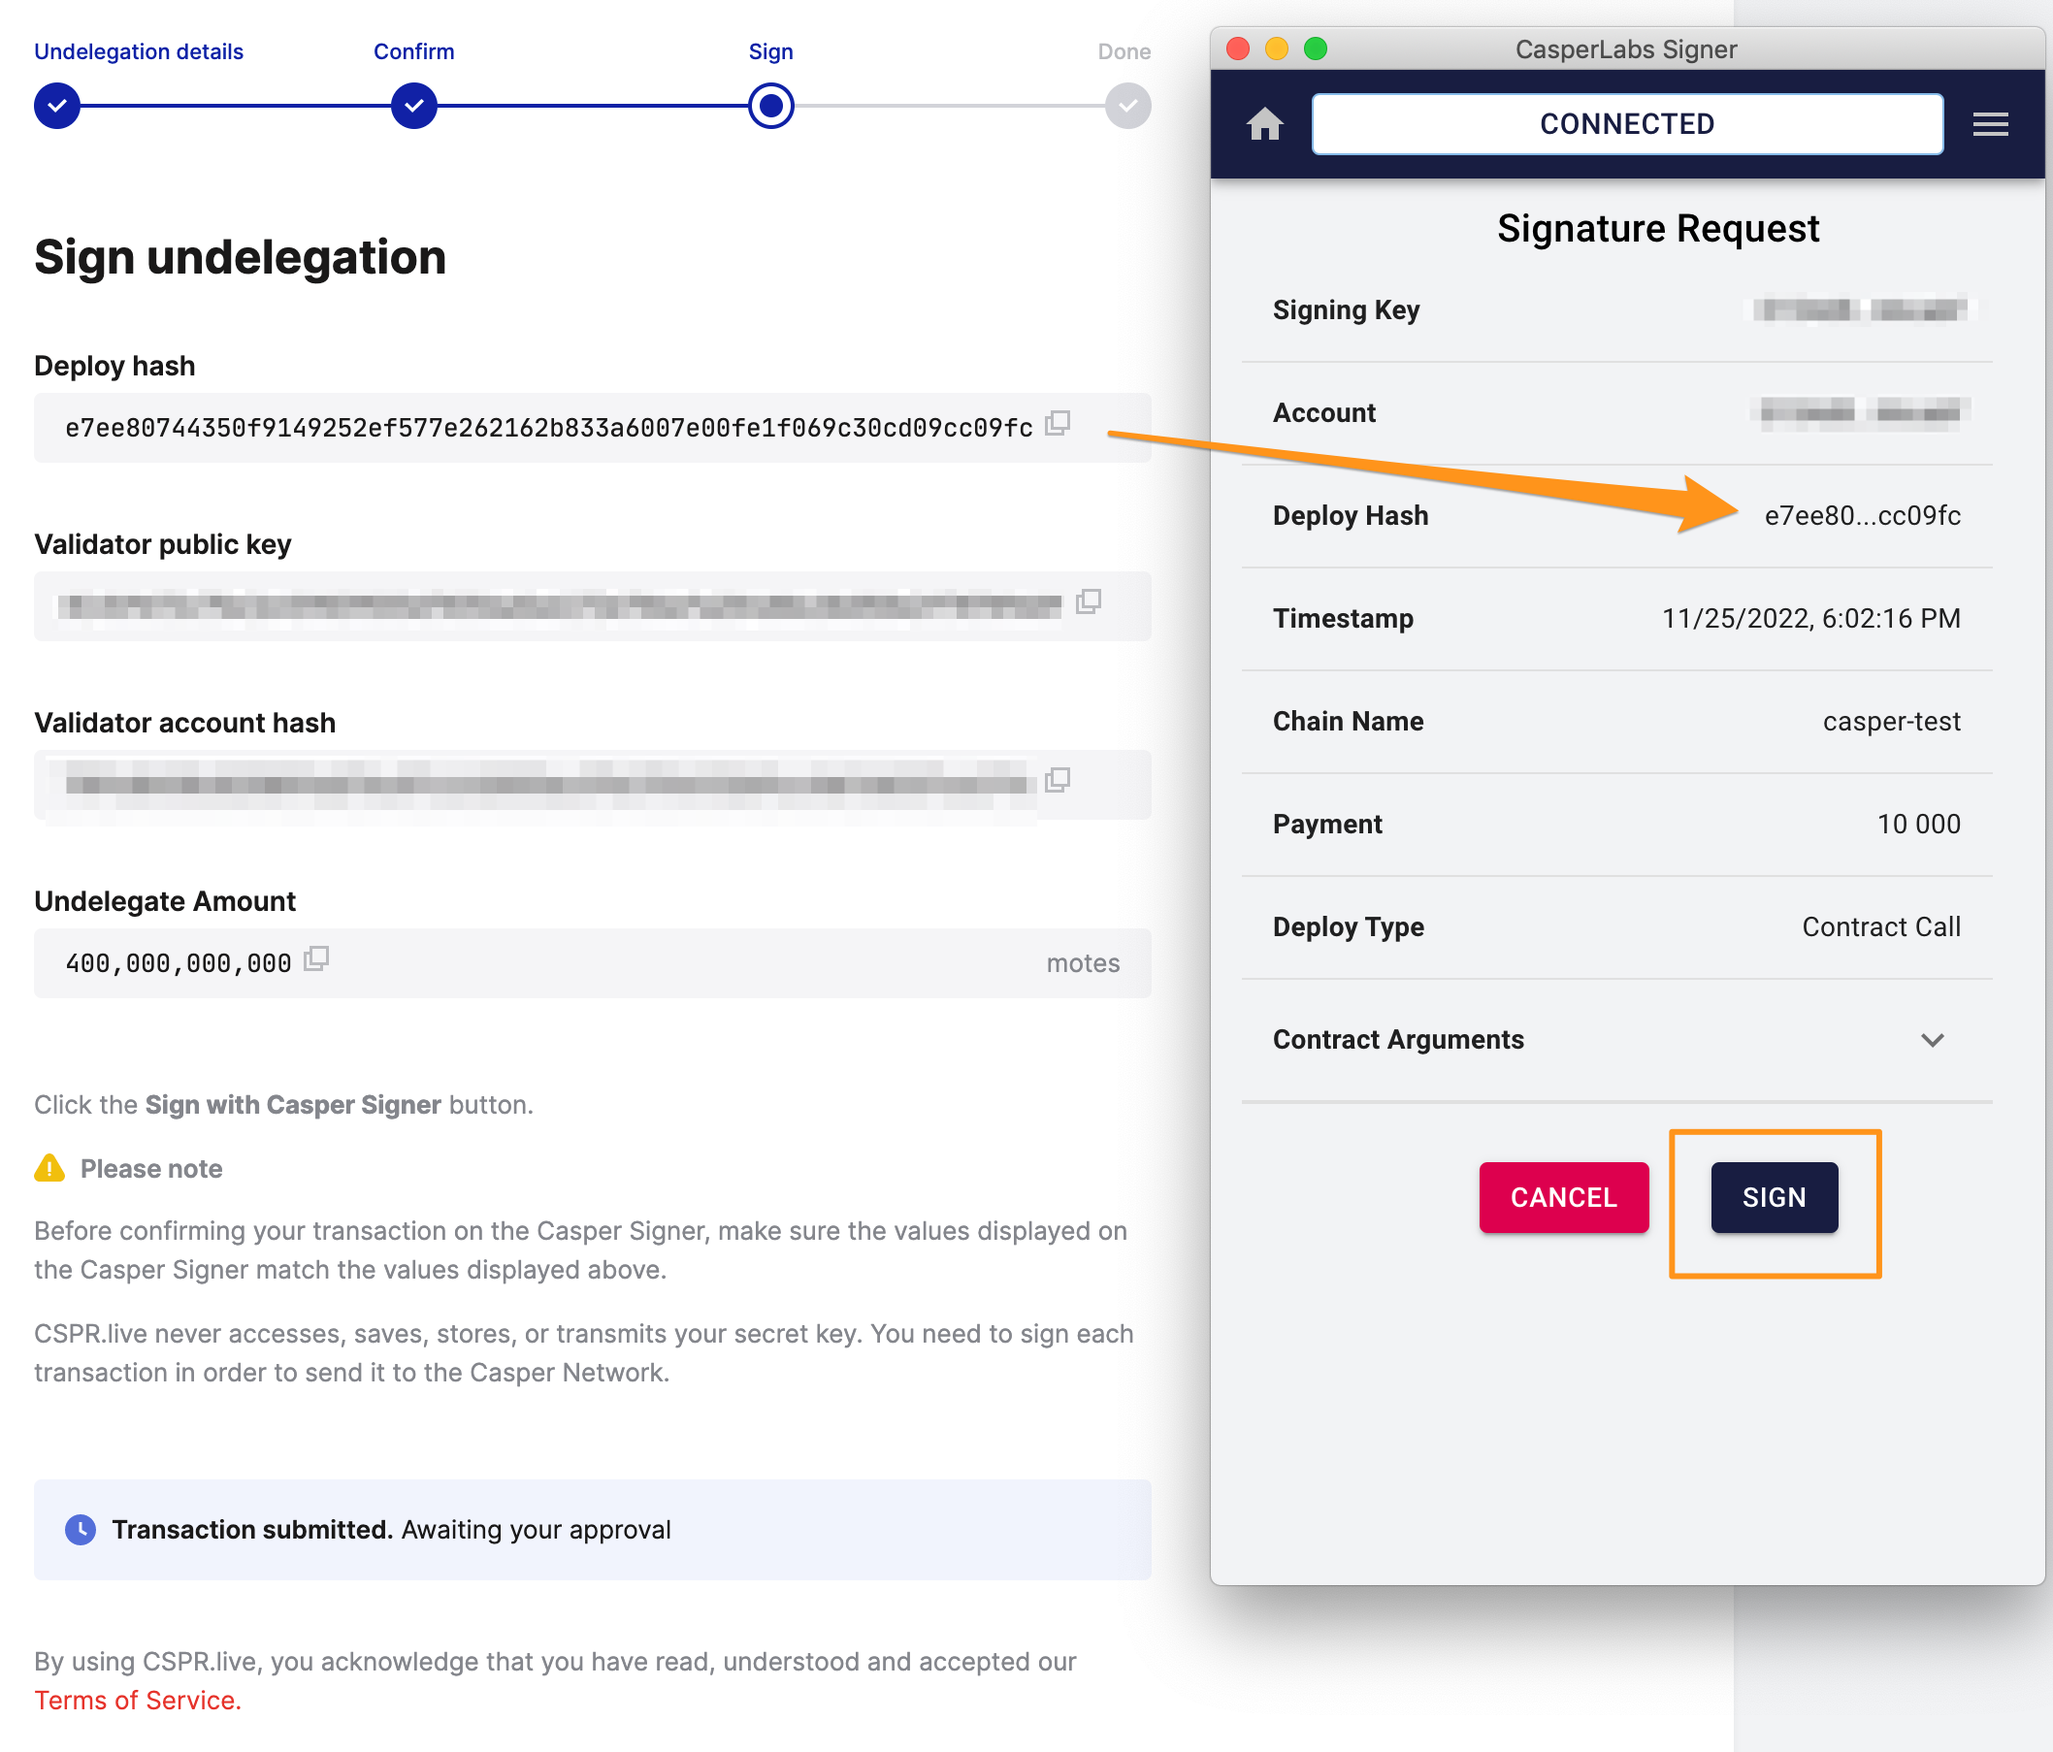
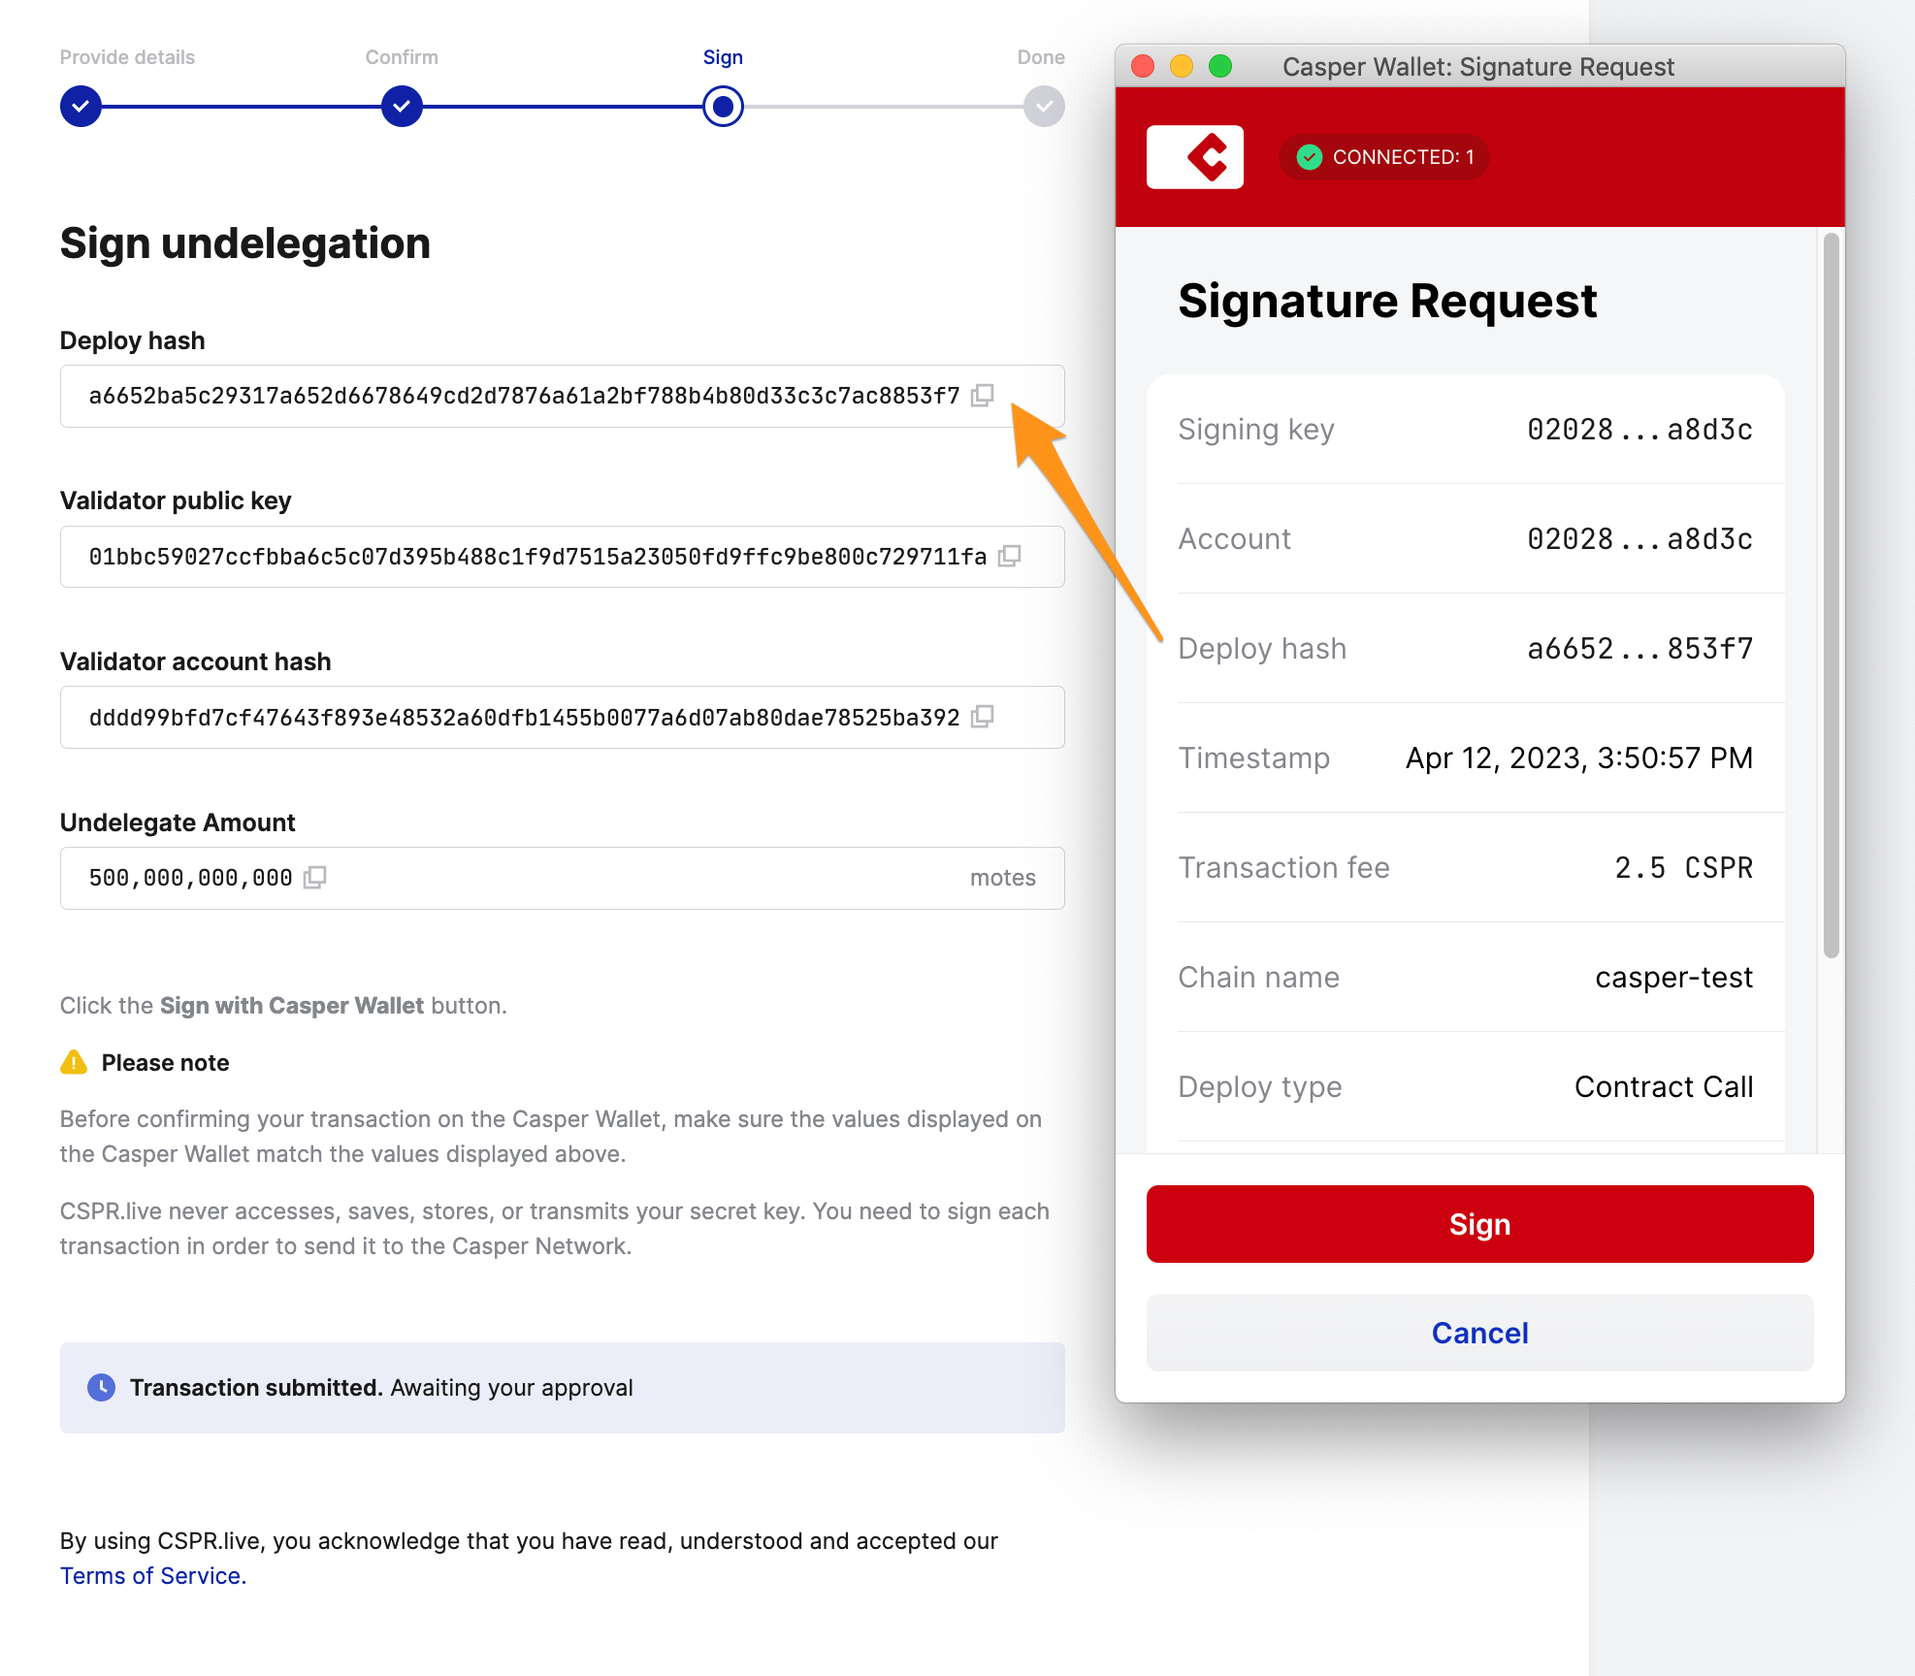
Updating the undelegate-ui.md with the Wallet

diff --git a/source/docs/casper/users/undelegate-ui.md b/source/docs/casper/users/undelegate-ui.md
@@ -45,15 +45,15 @@ The following instructions will take you through the undelegation process, start
 
 **Step 3 - Sign the undelegation**
 
-1.  Click **Sign with Casper Signer** to sign the transaction.
+1.  Click **Sign with Casper Wallet** to sign the transaction.
 
 <img class="align-center" src={useBaseUrl("/image/tutorials/undelegate/6.sign-undelegation.png")} alt="Sign the undelegation" width="400"/>
 
-2.  Once the Signer app window opens, **make sure that the deploy hash in the "Signer window" matches the deploy hash in the "Sign undelegation" window before continuing**.
+2.  Once the Casper Wallet opens, **check the deploy hash**. Ensure the deploy hash in the "Signature Request" window matches the deploy hash in the "Sign transaction" window before continuing.
 
 <img class="align-center" src={useBaseUrl("/image/tutorials/undelegate/7.confirm-hash.png")} alt="Confirm deploy hash" />
 
-3.  Click **Sign** in the Signer window to finalize the undelegation. The stake undelegation initiates as soon as the corresponding deploy is signed. Here is the expected output:
+3.  Click **Sign** in the Signature Request window to finalize the undelegation. The stake undelegation initiates as soon as the corresponding deploy is signed. Here is the expected output:
 
 <img class="align-center" src={useBaseUrl("/image/tutorials/undelegate/8.undelegation-confirmed.png")} alt="Undelegation confirmed" width="400"/>
 
